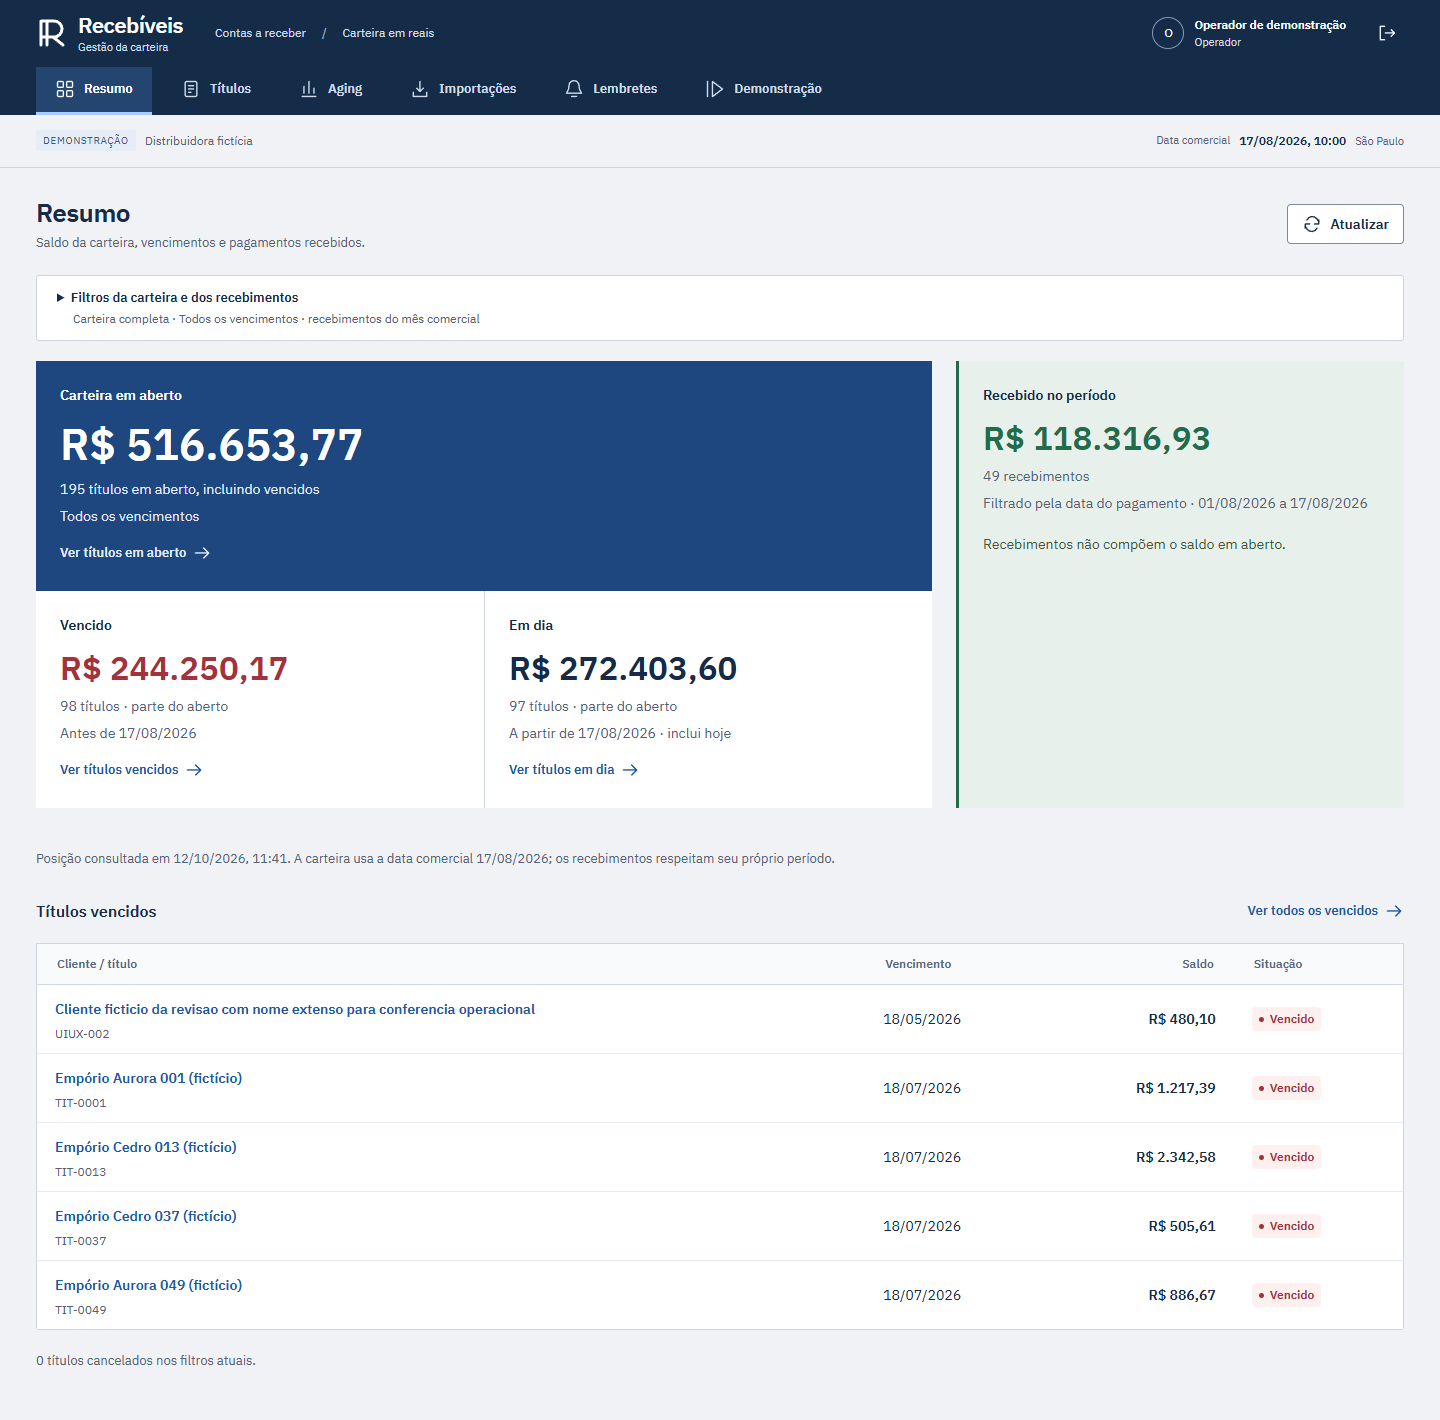
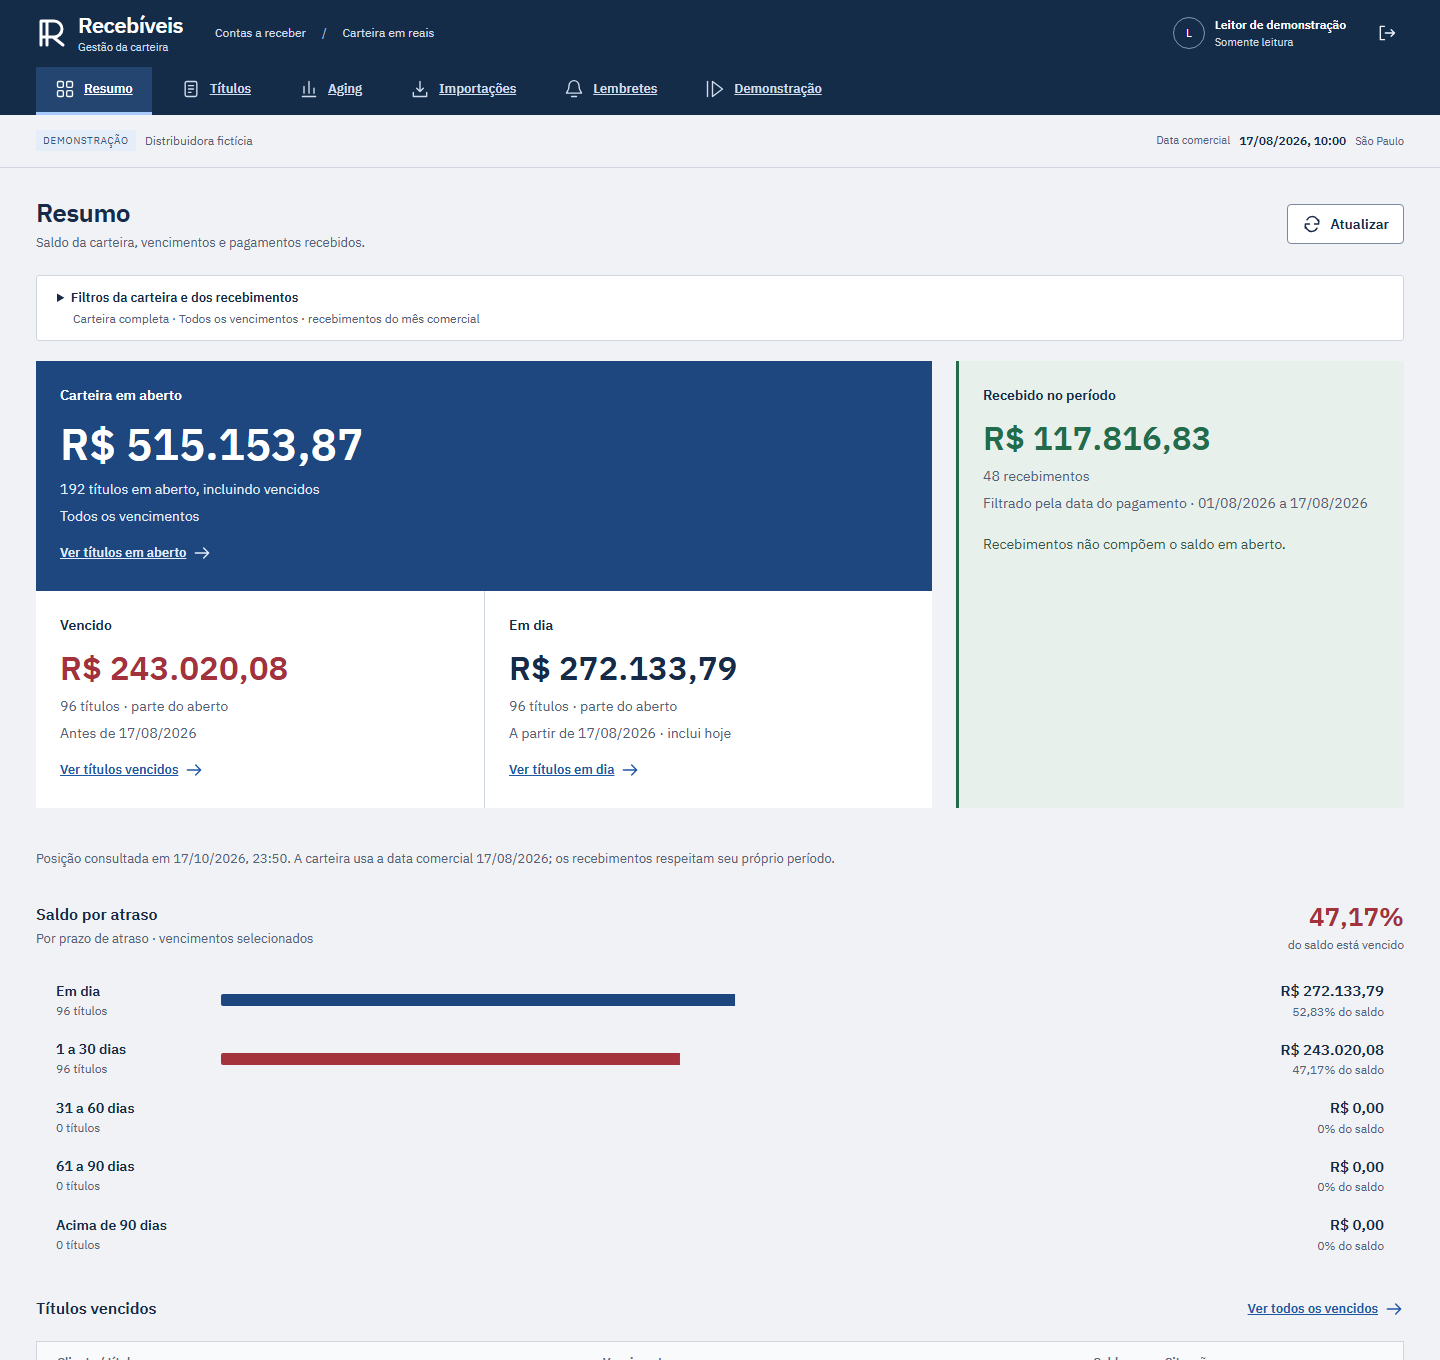
Mostra o saldo por faixa de atraso e atualiza a apresentação

diff --git a/frontend/src/features/aging-chart.tsx b/frontend/src/features/aging-chart.tsx
@@ -1,0 +1,69 @@
+import type { CSSProperties } from "react";
+import type { Aging } from "@/lib/types";
+import { money, titleCount } from "@/lib/format";
+import { portfolioShare } from "@/lib/portfolio-share";
+
+export function AgingChart({ data }: { data: Aging }) {
+  const overdue = data.buckets
+    .filter((bucket) => bucket.key !== "current")
+    .reduce((sum, bucket) => sum + BigInt(bucket.remaining_cents), 0n);
+  const share = portfolioShare(overdue.toString(), data.open_cents);
+  return (
+    <section
+      className="panel aging-analysis"
+      aria-label="Distribuição do saldo por atraso"
+    >
+      <div className="section-heading">
+        <div>
+          <h2>Saldo por atraso</h2>
+          <p>Por prazo de atraso · vencimentos selecionados</p>
+        </div>
+        <div className="aging-share">
+          <strong>
+            {share.toLocaleString("pt-BR", { maximumFractionDigits: 2 })}%
+          </strong>
+          <span>do saldo está vencido</span>
+        </div>
+      </div>
+      {BigInt(data.open_cents) === 0n ? (
+        <p className="padded">Nenhum saldo em aberto neste período.</p>
+      ) : (
+        <ol className="aging-chart">
+          {data.buckets.map((bucket) => {
+            const percentage = portfolioShare(
+              bucket.remaining_cents,
+              data.open_cents,
+            );
+            return (
+              <li key={bucket.key}>
+                <div className="aging-bar-label">
+                  <strong>{bucket.label}</strong>
+                  <span>{titleCount(bucket.title_count)}</span>
+                </div>
+                <div className="aging-track" aria-hidden="true">
+                  <span
+                    className={
+                      bucket.key === "current"
+                        ? "aging-bar current"
+                        : "aging-bar"
+                    }
+                    style={{ "--share": percentage / 100 } as CSSProperties}
+                  />
+                </div>
+                <div className="aging-bar-value">
+                  <strong>{money(bucket.remaining_cents)}</strong>
+                  <span>
+                    {percentage.toLocaleString("pt-BR", {
+                      maximumFractionDigits: 2,
+                    })}
+                    % do saldo
+                  </span>
+                </div>
+              </li>
+            );
+          })}
+        </ol>
+      )}
+    </section>
+  );
+}

diff --git a/frontend/src/app/financial-workspace.css b/frontend/src/app/financial-workspace.css
@@ -1,6 +1,102 @@
 .workspace {
   min-height: 100dvh;
 }
+.aging-analysis {
+  margin-bottom: 20px;
+}
+.aging-analysis .section-heading p {
+  margin: 4px 0 0;
+  color: var(--muted);
+  font-size: 13px;
+}
+.aging-share {
+  display: grid;
+  text-align: right;
+  font-variant-numeric: tabular-nums;
+}
+.aging-share strong {
+  color: var(--red);
+  font-size: 26px;
+}
+.aging-share span {
+  color: var(--muted);
+  font-size: 12px;
+}
+.aging-chart {
+  list-style: none;
+  margin: 0;
+  padding: 8px 20px 20px;
+  display: grid;
+  gap: 18px;
+}
+.aging-chart li {
+  display: grid;
+  grid-template-columns: 145px minmax(60px, 1fr) 170px;
+  align-items: center;
+  gap: 20px;
+}
+.aging-bar-label,
+.aging-bar-value {
+  display: grid;
+  font-variant-numeric: tabular-nums;
+}
+.aging-bar-label strong {
+  font-size: 14px;
+}
+.aging-bar-label span,
+.aging-bar-value span {
+  color: var(--muted);
+  font-size: 12px;
+}
+.aging-bar-value {
+  text-align: right;
+}
+.aging-track {
+  height: 12px;
+  background: var(--canvas);
+  border-radius: 2px;
+  overflow: hidden;
+}
+.aging-bar {
+  display: block;
+  height: 100%;
+  background: var(--red);
+  transform: scaleX(var(--share));
+  transform-origin: left;
+  transition: transform 240ms cubic-bezier(0.23, 1, 0.32, 1);
+}
+.aging-bar.current {
+  background: var(--balance);
+}
+@media (prefers-reduced-motion: no-preference) {
+  @starting-style {
+    .aging-bar {
+      transform: scaleX(0);
+    }
+  }
+}
+@media (prefers-reduced-motion: reduce) {
+  .aging-bar {
+    transition: none;
+  }
+}
+@media (max-width: 600px) {
+  .aging-chart li {
+    grid-template-columns: 1fr 1fr;
+    gap: 8px 12px;
+  }
+  .aging-track {
+    grid-column: 1 / -1;
+    grid-row: 2;
+  }
+  .aging-bar-value {
+    grid-column: 2;
+    grid-row: 1;
+  }
+  .aging-share strong {
+    font-size: 22px;
+  }
+}
 .badge.badge-partial {
   background: var(--warning-soft);
   color: var(--warning);

diff --git a/frontend/tests/aging-chart.spec.ts b/frontend/tests/aging-chart.spec.ts
@@ -1,0 +1,45 @@
+import { expect, test } from "@playwright/test";
+
+test("gráfico de atraso acompanha o filtro de vencimento e a carteira vazia", async ({
+  page,
+}) => {
+  await page.goto("/");
+  await page.getByLabel("E-mail", { exact: true }).fill("leitor@example.com");
+  await page.getByLabel("Senha", { exact: true }).fill("Recebiveis!2026");
+  await page.getByRole("button", { name: "Entrar", exact: true }).click();
+  const chart = page.getByRole("region", {
+    name: "Distribuição do saldo por atraso",
+  });
+  await expect(
+    chart.getByRole("heading", { name: "Saldo por atraso" }),
+  ).toBeVisible();
+  await expect(chart.locator("li")).toHaveCount(5);
+  const baseline = await chart.locator(".aging-bar-value").allTextContents();
+  await page.locator(".overview-filter-panel summary").click();
+  await page.locator('input[name="due_from"]').fill("2099-01-01");
+  await page.locator('input[name="due_to"]').fill("2099-01-31");
+  await page
+    .getByRole("button", { name: "Aplicar filtros", exact: true })
+    .click();
+  await expect(chart).toContainText("Nenhum saldo em aberto neste período.");
+  await expect(chart.locator("li")).toHaveCount(0);
+  await page.locator(".overview-filter-panel summary").click();
+  await page
+    .getByRole("button", { name: "Limpar filtros", exact: true })
+    .click();
+  await expect(chart.locator(".aging-bar-value")).toHaveText(baseline);
+  await page.setViewportSize({ width: 390, height: 844 });
+  await expect(chart.getByRole("heading")).toBeVisible();
+  expect(
+    await page.evaluate(
+      () => document.documentElement.scrollWidth <= innerWidth,
+    ),
+  ).toBe(true);
+  await page.emulateMedia({ reducedMotion: "reduce" });
+  expect(
+    await chart
+      .locator(".aging-bar")
+      .first()
+      .evaluate((element) => getComputedStyle(element).transitionDuration),
+  ).toBe("0s");
+});

diff --git a/frontend/src/features/overview.tsx b/frontend/src/features/overview.tsx
@@ -10,7 +10,8 @@ import {
   portfolioScope,
 } from "./overview-filters";
 import type { PortfolioFilters } from "./receivables";
-import type { Overview, Page, Receivable } from "@/lib/types";
+import type { Aging, Overview, Page, Receivable } from "@/lib/types";
+import { AgingChart } from "./aging-chart";
 import { Alert, Badge, Empty, Icon, Loading } from "@/components/ui";
 
 export function OverviewView({
@@ -34,6 +35,10 @@ export function OverviewView({
     revision,
   );
   const data = overview.data;
+  const aging = useResource<Aging>(
+    `/reports/aging?${query({ q: filters.q, due_from: filters.due_from, due_to: filters.due_to, page_size: 1 })}`,
+    revision,
+  );
   function openTitles(status: string) {
     onTitles({
       q: filters.q,
@@ -185,6 +190,13 @@ export function OverviewView({
         )}
         {!overview.loading && data && (
           <div className="overview-collection">
+            {aging.error ? (
+              <Alert>{aging.error}</Alert>
+            ) : aging.loading ? (
+              <Loading />
+            ) : (
+              aging.data && <AgingChart data={aging.data} />
+            )}
             <section className="panel">
               <div className="section-heading">
                 <div>

diff --git a/frontend/src/features/reports.tsx b/frontend/src/features/reports.tsx
@@ -6,6 +6,7 @@ import { date, instant, money, bucketOptions, titleCount } from "@/lib/format";
 import { useResource } from "@/lib/use-resource";
 import type { Aging, CustomerStatement, Receivable } from "@/lib/types";
 import type { PortfolioFilters } from "./receivables";
+import { AgingChart } from "./aging-chart";
 import {
   Alert,
   Badge,
@@ -361,6 +362,7 @@ export function AgingView({
               generatedAt={data.generated_at}
               businessDate={data.business_date}
             />
+            <AgingChart data={data} />
             <section className="panel">
               <div className="section-heading">
                 <h2>Carteira no recorte</h2>

diff --git a/frontend/tests/portfolio-share.spec.ts b/frontend/tests/portfolio-share.spec.ts
@@ -1,0 +1,11 @@
+import { expect, test } from "@playwright/test";
+import { portfolioShare } from "../src/lib/portfolio-share";
+
+test("participação do saldo preserva centavos grandes e arredonda duas casas", () => {
+  expect(portfolioShare("1", "3")).toBe(33.33);
+  expect(portfolioShare("2", "3")).toBe(66.67);
+  expect(portfolioShare("9007199254740993", "18014398509481986")).toBe(50);
+  expect(portfolioShare("0", "0")).toBe(0);
+  expect(portfolioShare("0", "100")).toBe(0);
+  expect(portfolioShare("100", "100")).toBe(100);
+});

diff --git a/frontend/src/lib/portfolio-share.ts b/frontend/src/lib/portfolio-share.ts
@@ -1,0 +1,5 @@
+export function portfolioShare(cents: string, totalCents: string): number {
+  const total = BigInt(totalCents);
+  if (total <= 0n) return 0;
+  return Number((BigInt(cents) * 10_000n + total / 2n) / total) / 100;
+}

diff --git a/docs/image-captures.md b/docs/image-captures.md
@@ -1,12 +1,10 @@
 # Capturas da interface
 
-## Apresentação
+## Apresentação atual
 
-A [imagem do Resumo](readme/overview.png), usada no README, foi capturada na aplicação local em 12/10/2026, no Edge 155.0.4283.45, com viewport 1440×900 CSS px. A aplicação estava compilada em produção e autenticada como operador. O PNG conserva a página inteira, sem edição de pixels.
+As imagens [desktop](readme/overview.png) e [mobile](readme/overview-mobile.png) foram capturadas em 18/10/2026 UTC, no Chromium 153.0.8010.12. O desktop usa viewport de 1440 × 1360; o mobile mostra o gráfico em 390 × 844. A aplicação usa build de produção, API local e PostgreSQL 17.11 portátil, com os dados fictícios do seed e perfil leitor. A data comercial é 17/08/2026.
 
-A carteira é fictícia: seed de 240 títulos mais três títulos de teste, 61 clientes, 49 recebimentos e cinco lotes. A data comercial é 17/08/2026. O Resumo mostra R$ 516.653,77 em aberto, em 195 títulos, e R$ 118.316,93 recebidos, em 49 recebimentos. Esses valores descrevem o estado da demonstração capturada.
-
-A [imagem do CI de 22/09/2026](screenshots/publication-20260922/overview.png) pertence ao commit `5718cdad`; o [recibo](evidence/frontend-ci-20260922.json) registra sua origem e hash. Ela não representa o estado atual da carteira.
+O desktop mostra a página; o mobile é uma captura nativa do componente. Os arquivos não receberam edição de pixels. [Arquivos e hashes](readme/capture.json).
 
 ## Reproduzir
 
@@ -38,7 +36,7 @@ O [coletor](../scripts/capture_restore_story.cjs) consulta após login e espera 
 
 Capturas não substituem testes de cálculo, identidade ou persistência, nem verificam leitor de tela ou conformidade de acessibilidade integral. Preserve imagens e manifestos de uma prova concluída; novas execuções recebem destinos próprios.
 
-## Leitura visual conferida em 13/10/2026
+## Registro da captura anterior (13/10/2026)
 
 O Resumo mostra a página completa e distingue saldo aberto de recebimentos. Seus R$ 244.250,17 vencidos e R$ 272.403,60 em dia somam R$ 516.653,77; os R$ 118.316,93 recebidos pertencem a outro recorte. A imagem apresenta indicadores e uma tabela, sem gráfico de série temporal.
 
